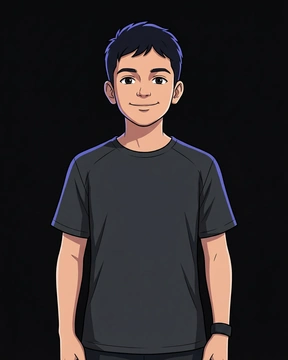
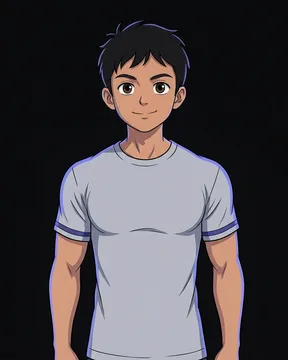
Avatarlar yeniden çizildi: seviyeler boyunca belirgin kaslanma (Melih: Hanma tarzı final, Mert: giyinik genç kahraman)

diff --git a/index.html b/index.html
@@ -3274,7 +3274,7 @@
       if (set) {
         let bg = '#18181b', ln = 'rgba(255,255,255,0.12)';
         try { const F = AvatarArt.frame(tier); bg = `linear-gradient(${F.bg1}, ${F.bg2})`; ln = F.m[1]; } catch (e) {}
-        return `<div class="av-img" style="background:${bg};box-shadow:inset 0 0 0 2px ${ln}"><img src="avatars/${set}/${tier}.webp" alt="" decoding="async" onerror="avatarImgFail(this, ${tier})"></div>`;
+        return `<div class="av-img" style="background:${bg};box-shadow:inset 0 0 0 2px ${ln}"><img src="avatars/${set}/${tier}.webp?v=2" alt="" decoding="async" onerror="avatarImgFail(this, ${tier})"></div>`;
       }
       return avatarSvgOnly(tier);
     }

diff --git a/sw.js b/sw.js
@@ -1,6 +1,6 @@
-const CACHE_NAME = 'workout-v14';
+const CACHE_NAME = 'workout-v15';
 const ASSETS = ['./', './index.html', './figures.js', './tracker.js', './cloud.js', './charts.js', './avatar.js', './manifest.json', './icon-192.png', './icon-512.png', './1dk.mp3?v=2', './30s.mp3?v=2', './15s.mp3?v=2', './5s.mp3?v=2'];
-const AVATARS = ['melih', 'mert'].flatMap((s) => Array.from({ length: 11 }, (_, i) => `./avatars/${s}/${i}.webp`));
+const AVATARS = ['melih', 'mert'].flatMap((s) => Array.from({ length: 11 }, (_, i) => `./avatars/${s}/${i}.webp?v=2`));
 const NAV_TIMEOUT_MS = 3500;
 
 self.addEventListener('install', (e) => {
